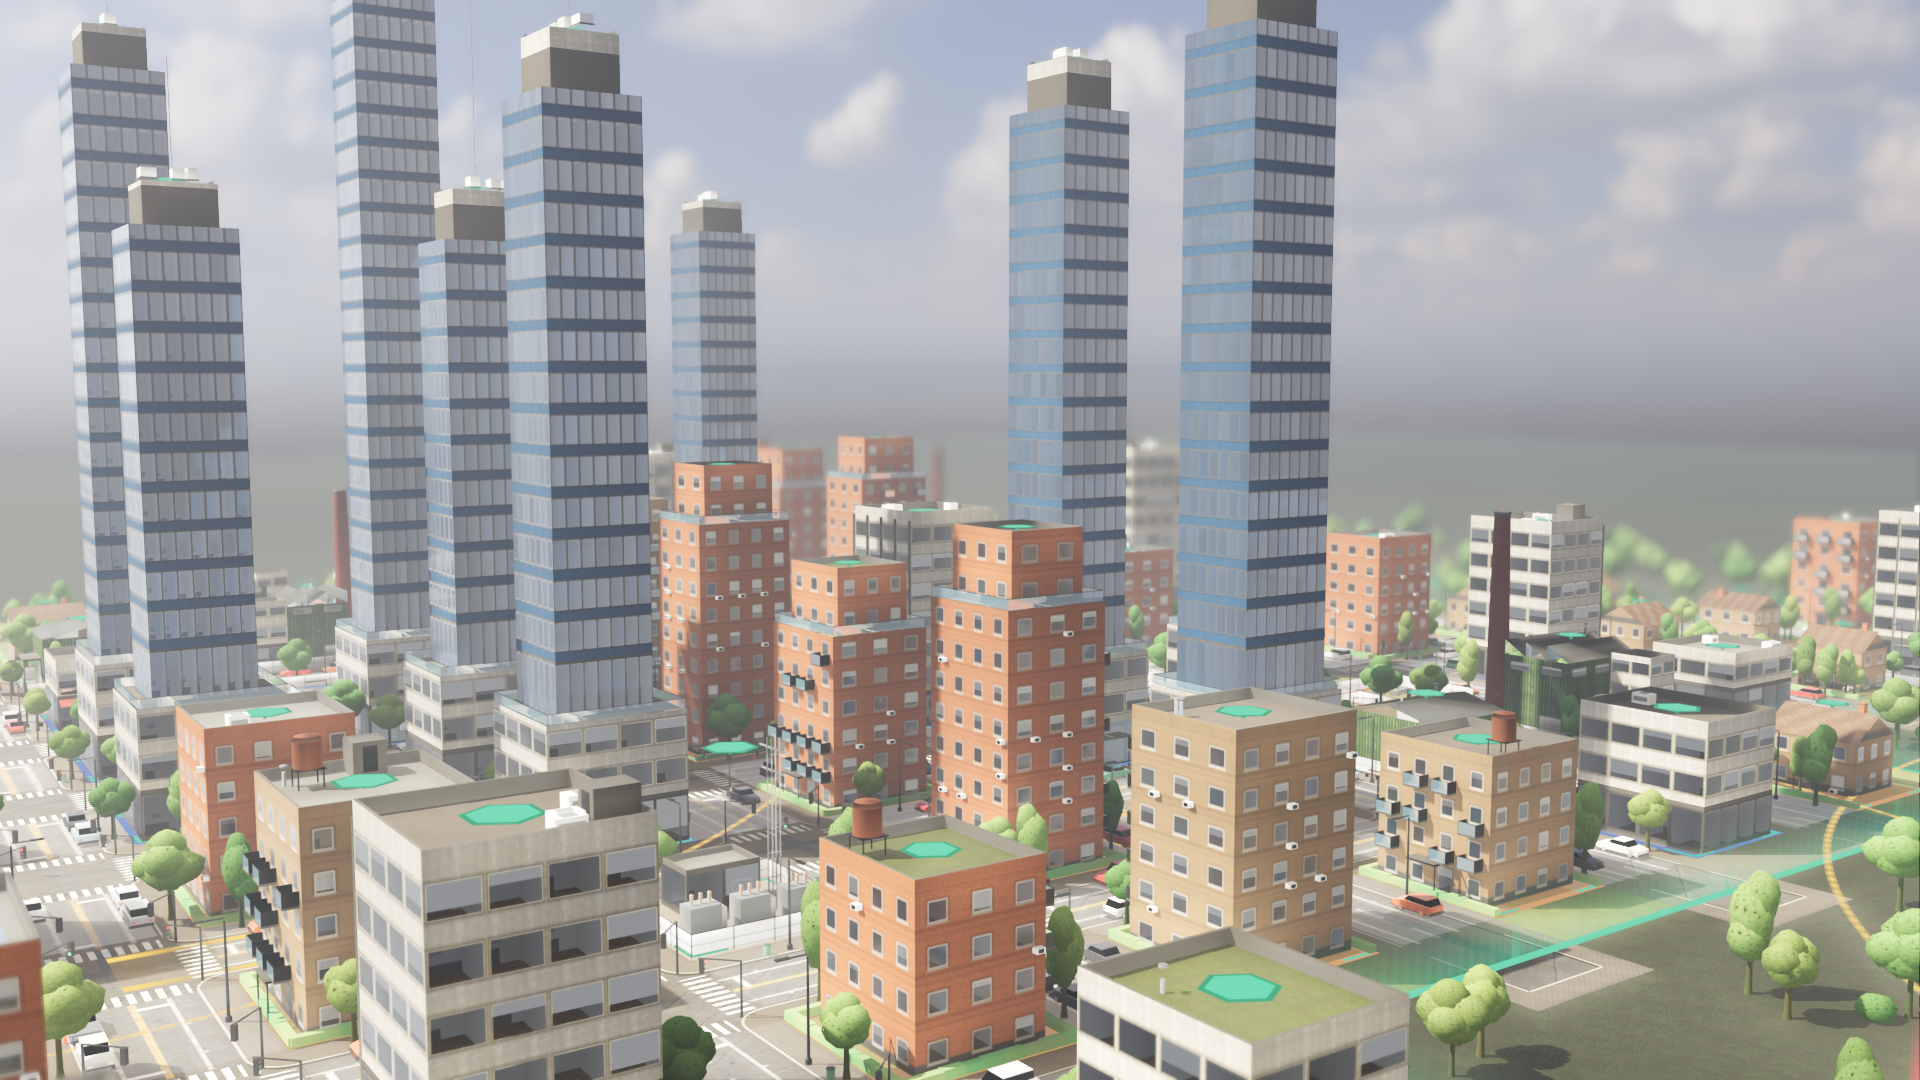
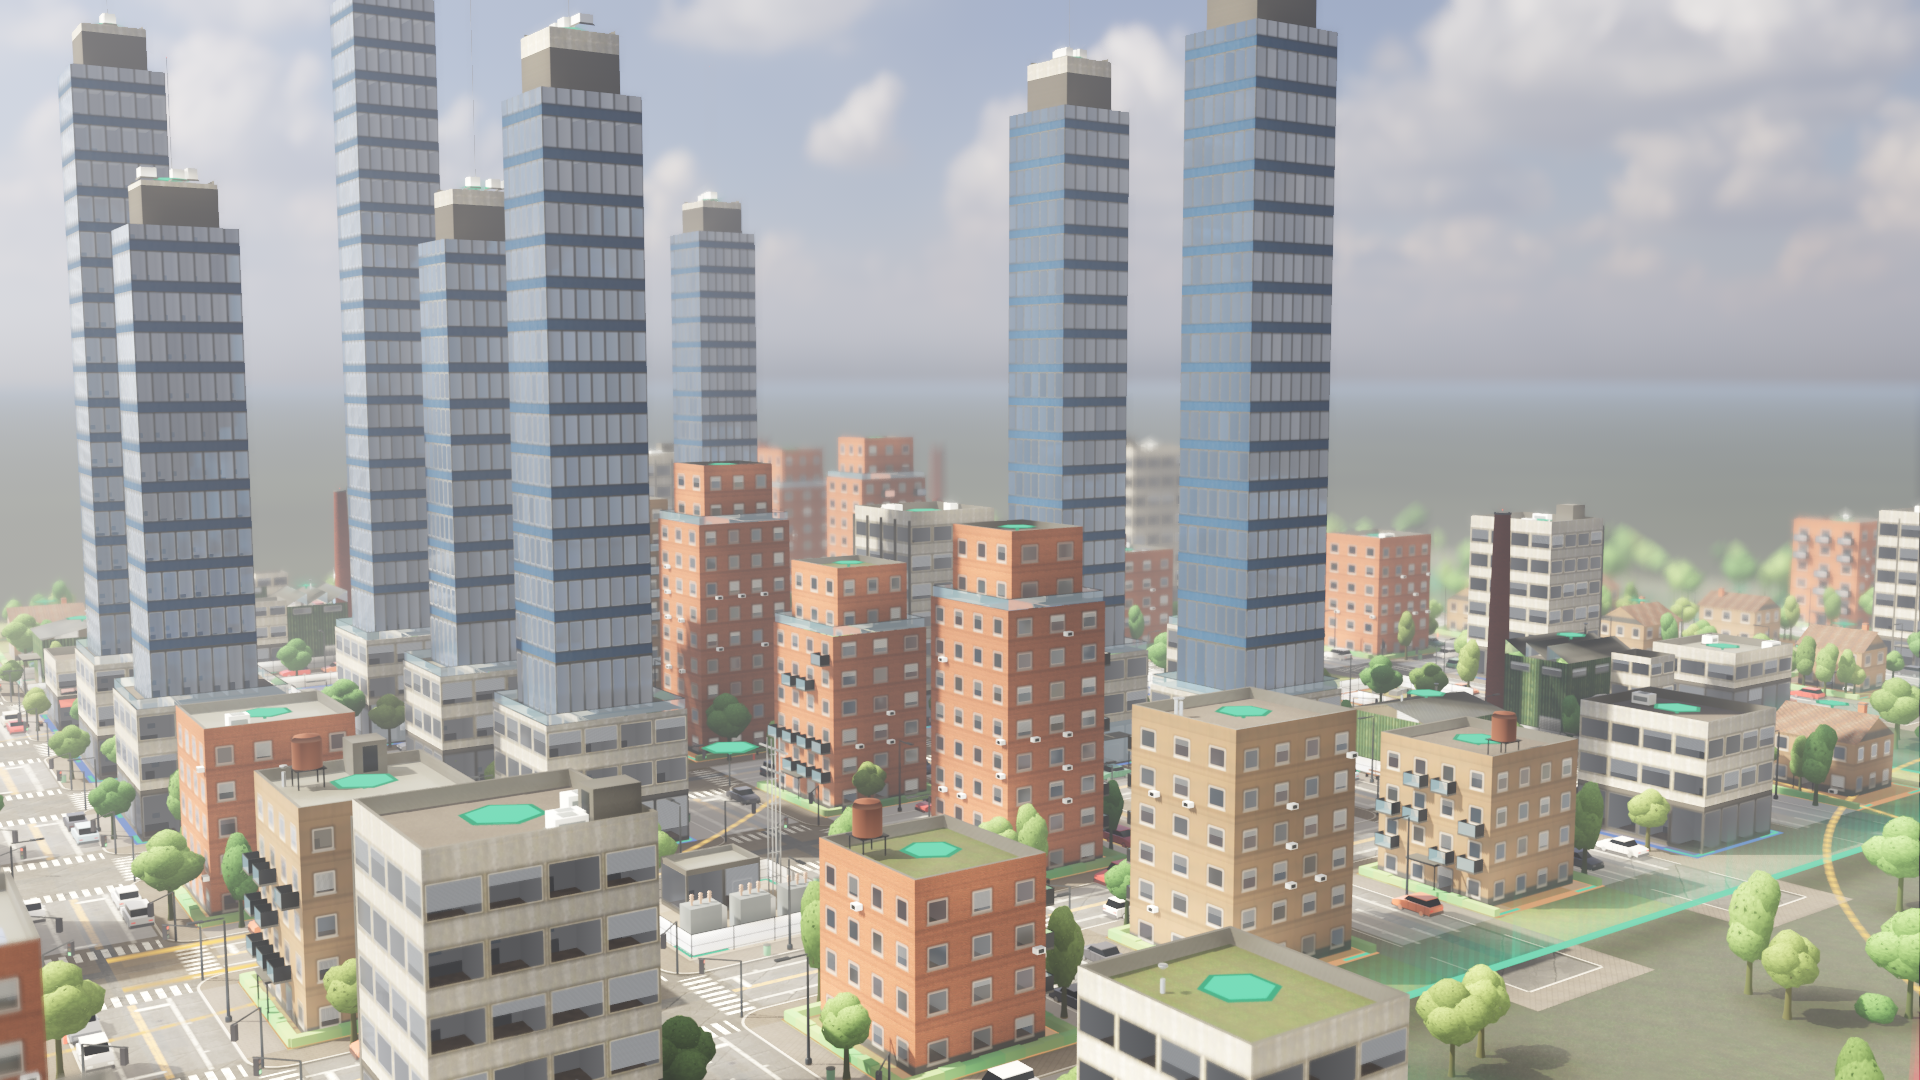
techart: re-render four stale showcase shots after terrain/GI fixes
s02_far, s00_cinematic_day and the two 4K shots now reflect the 6000 m
terrain, 1100 m far-shot VoxelGI volume and 7000 m cinematic far plane.
Top sky strip and left-edge light blob are gone; a faint horizontal band
remains in the far shot's terrain, noted in REPORT §11 for M4.

Changed region(s): [[0.7188, 0.8556, 1.0, 1.0], [0.9688, 0.7944, 1.0, 0.8556], [0.8438, 0.5194, 0.875, 0.55]]

diff --git a/client/assets/techart/showcase_max/docs/REPORT.md b/client/assets/techart/showcase_max/docs/REPORT.md
@@ -232,3 +232,7 @@ overlay（阵营 A / B、分区 R / C / I、电力、拥堵）不写进世界材
 - 没有验证 MetalFX 0.67× 是不是交互档的最优缩放，也没有做 FSR2 / MetalFX 的画质对照图。
 - MSAA 8× 的早期数据不可信，没有重测。
 - 贴图和 HDRI 的 `.import` 是脚本生成的（BPTC 压缩、带 mipmap），首次 `--import` 本机实测 2:11。
+
+## 11. 2026-10-08 补渲（集成者）
+
+负责人批准后重渲了 `s02_far`、`s00_cinematic_day`、`s00_cinematic_day_4k`、`s01_hero_day_4k`（修复后的代码：地形 6000 m、远景 VoxelGI 体积 1100 m / 细分 256、电影镜头远平面 7000 m）。顶部露天和左缘光斑已消失。`s02_far` 的地形中部仍有一条横向的浅色带，疑似远景 VoxelGI 体积边界或地形分块接缝，留给 M4 处理。本次 draw_ms：s02_far 49.2、s00_cinematic_day 71.3、s00_cinematic_day_4k 229.7、s01_hero_day_4k 181.1（机器已热，仅供参考）。
